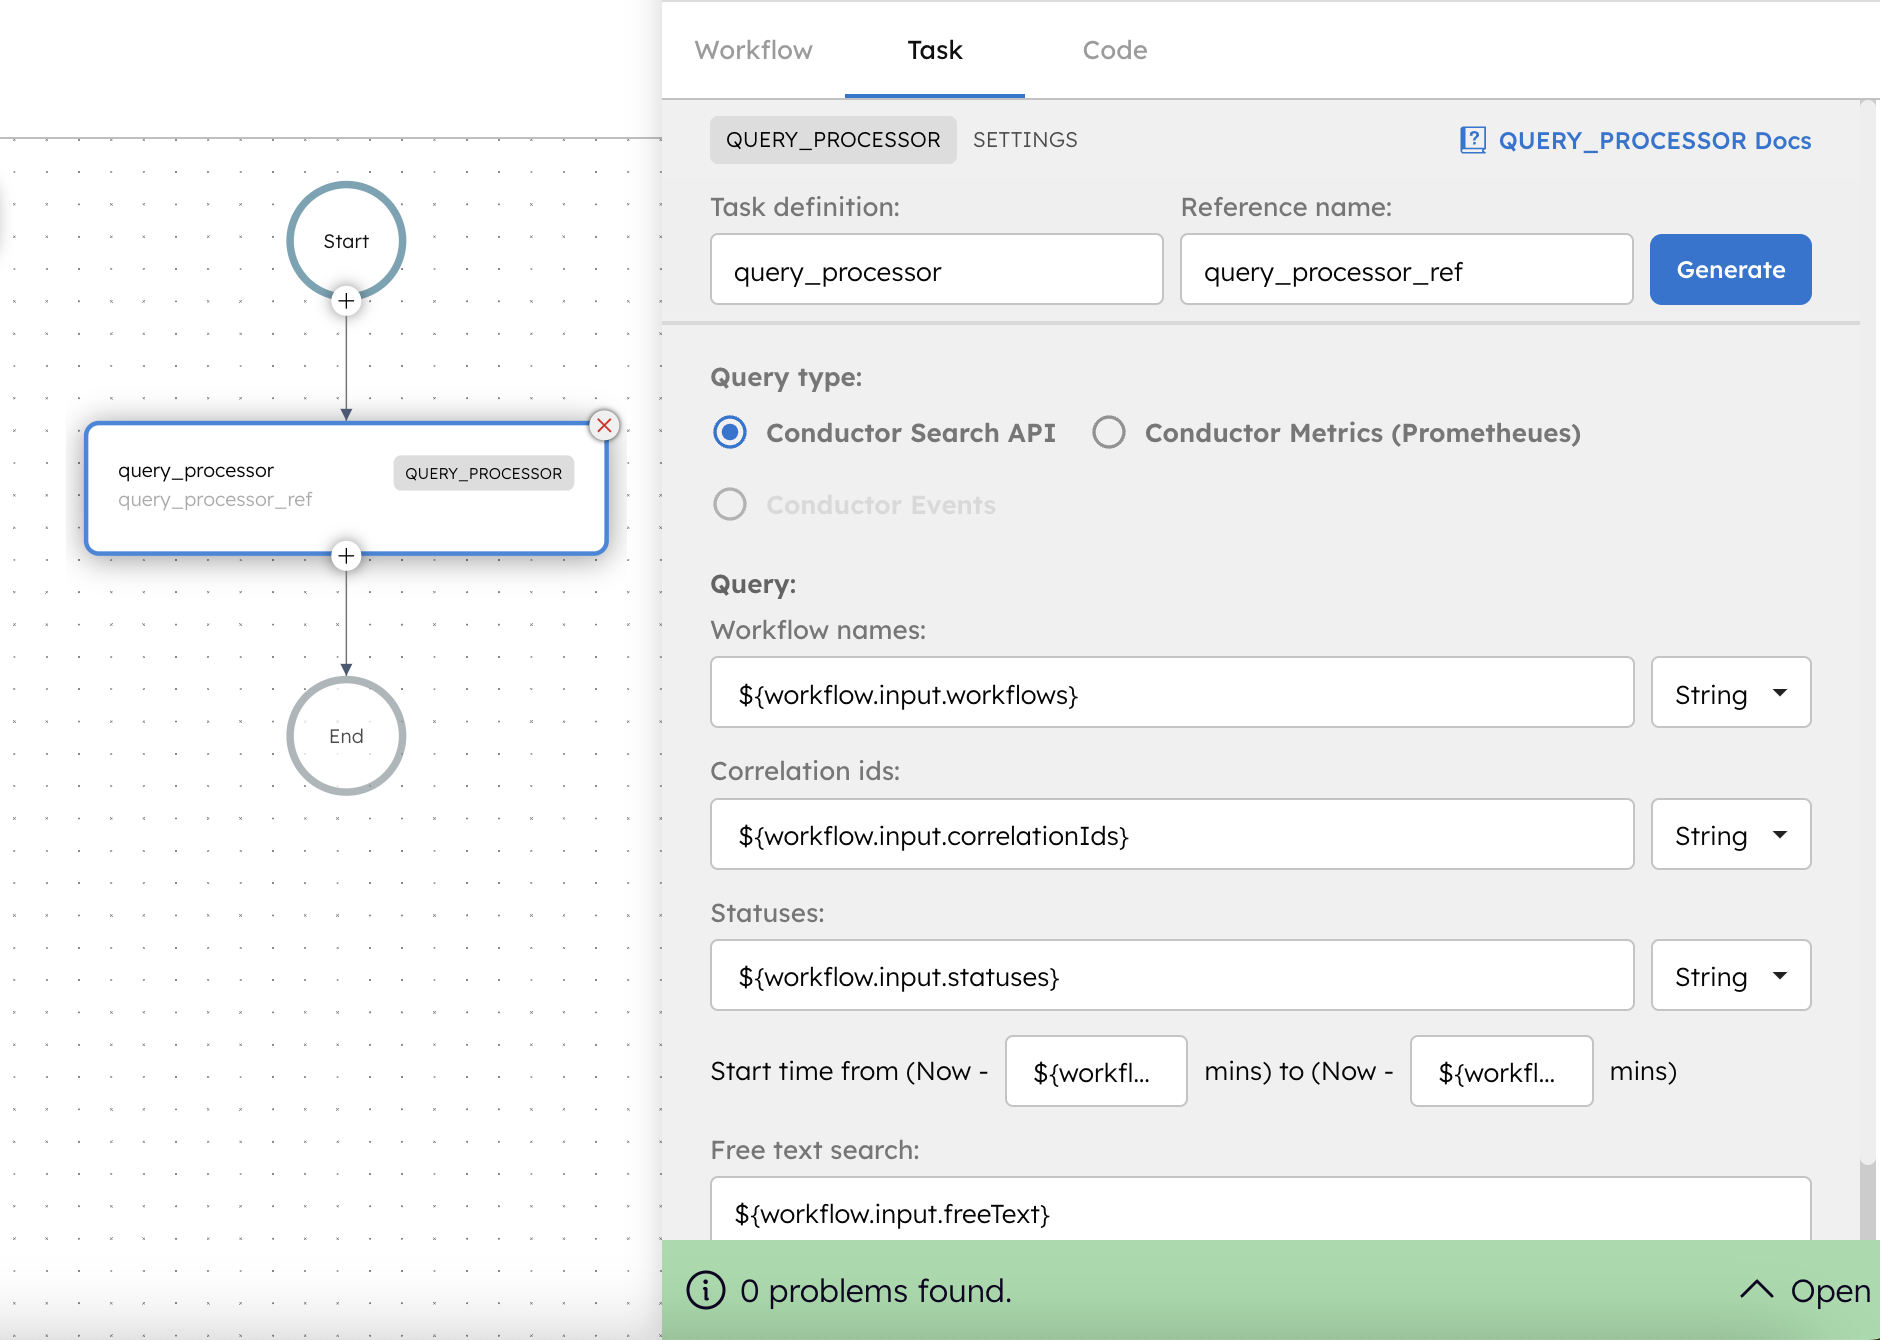
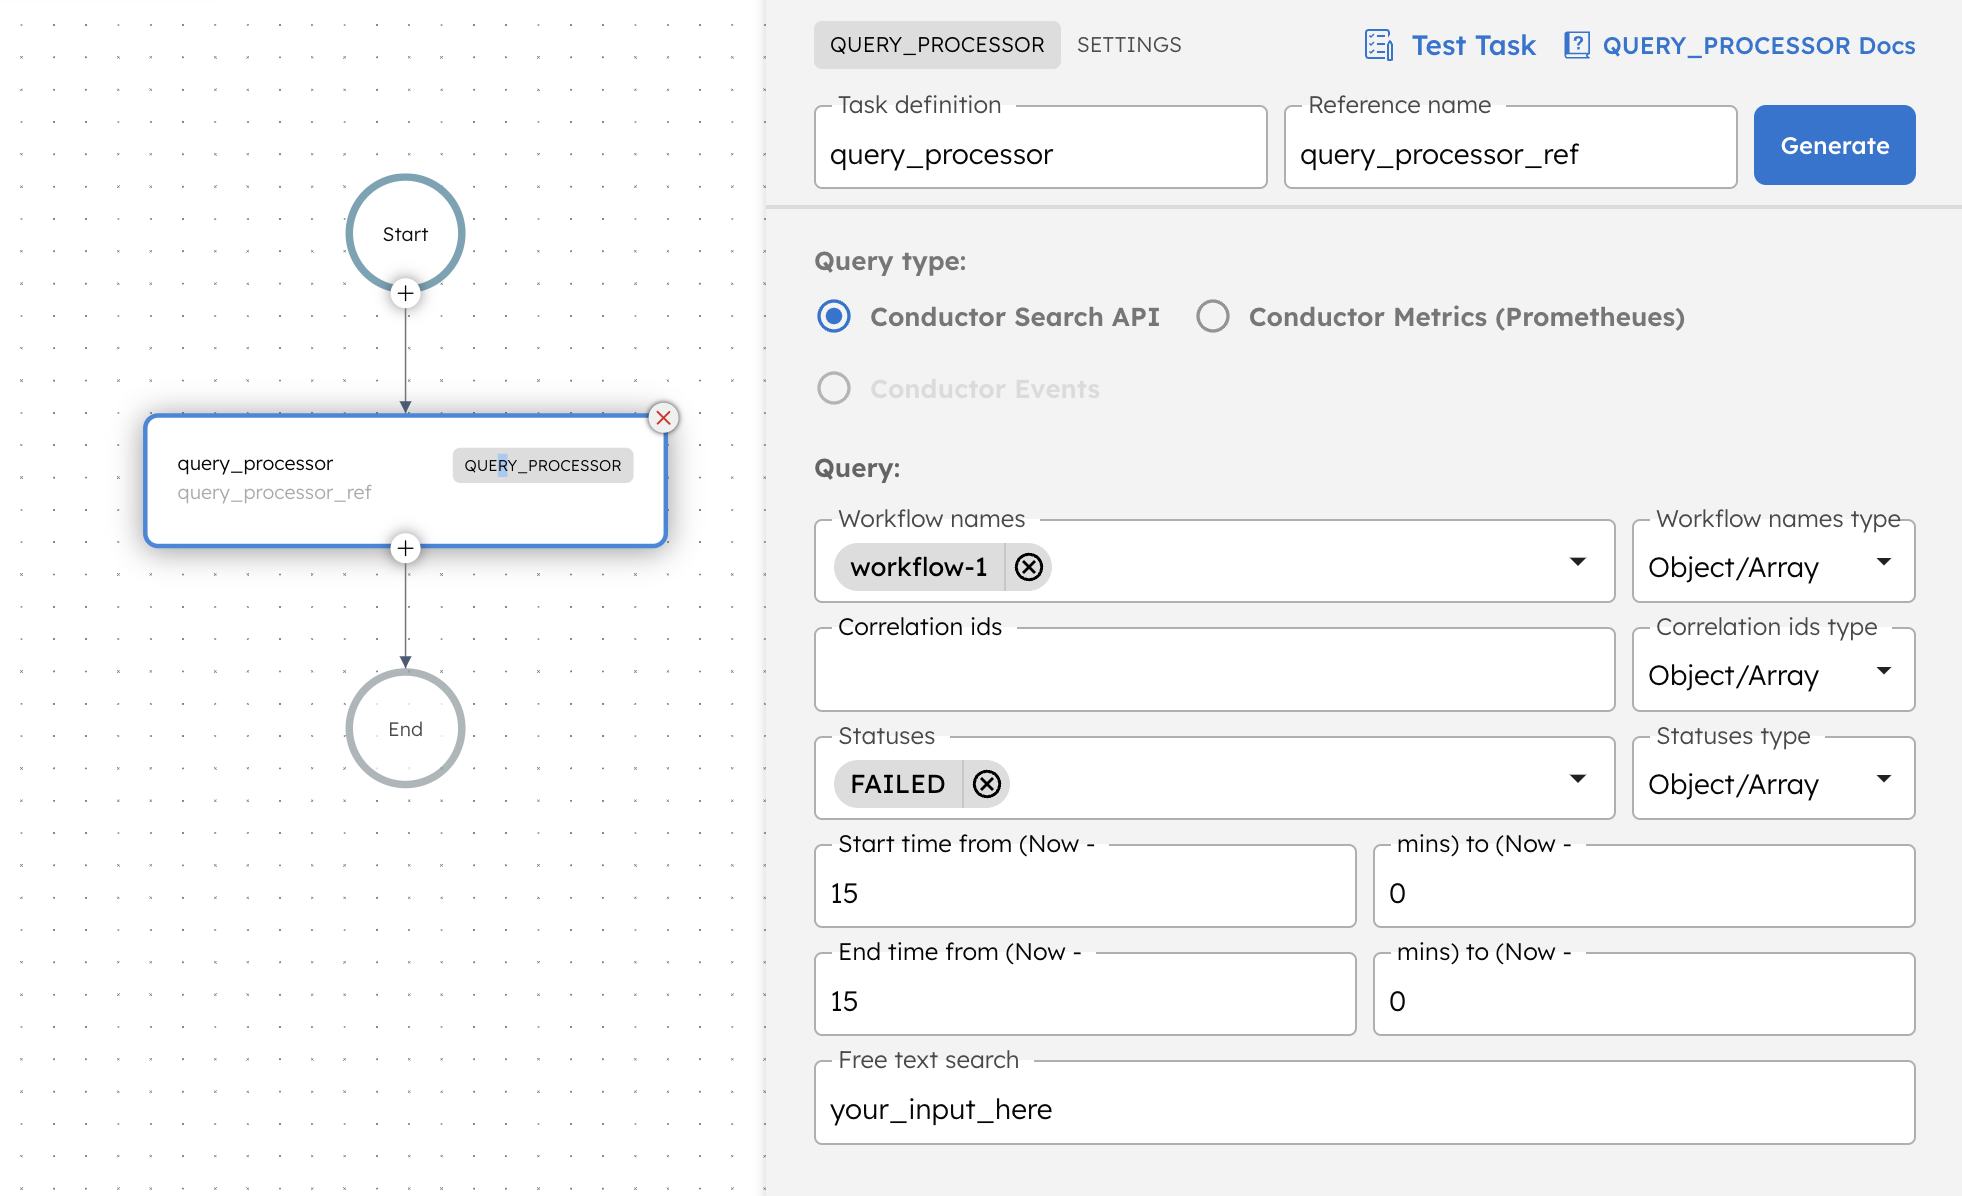
Query Processor doc updates

diff --git a/docs/reference-docs/system-tasks/query-processor.md b/docs/reference-docs/system-tasks/query-processor.md
@@ -7,29 +7,35 @@ import TabItem from '@theme/TabItem';
 
 # Query Processor
 
-A system task for executing queries across different systems, tailored for purposes like alert generation.
+A system task designed to execute queries across various systems, primarily used for alert generation.
 
-Conductor supports the ability to query the following sources:
+Conductor supports querying from the following sources:
 
 -  Conductor Search API
-    - This query type can be used for querying information from the Conductor Search API. It allows users to retrieve workflow-related data based on various parameters.
+    - This query type retrieves workflow-related data from the Conductor Search API using various parameters.
 - Conductor Metrics (Prometheus)
-    - This query type facilitates querying Conductor Metrics using Prometheus. It enables users to gather and analyze performance metrics and system statistics. 
+    - This query type allows gathering and analyzing performance metrics and system statistics through Prometheus. 
 
 ## Definitions
 
 ```json
-{
+  {
      "name": "query_processor",
      "taskReferenceName": "query_processor_ref",
      "inputParameters": {
+       "workflowNames": [
+         "workflow-1"
+       ],
+       "statuses": [
+         "FAILED"
+       ],
+       "correlationIds": [],
        "queryType": "CONDUCTOR_API",
-       "statuses": "${workflow.input.statuses}",
-       "workflowNames": "${workflow.input.workflows}",
-       "startTimeFrom": "${workflow.input.fromStartedMinsFromNow}",
-       "startTimeTo": "${workflow.input.toStartedMinsFromNow}",
-       "correlationIds": "${workflow.input.correlationIds}",
-       "freeText": "${workflow.input.freeText}"
+       "startTimeFrom": 15,
+       "endTimeFrom": 15,
+       "startTimeTo": 0,
+       "endTimeTo": 0,
+       "freeText": "your_input_here"
      },
      "type": "QUERY_PROCESSOR",
 }
@@ -39,20 +45,22 @@ Conductor supports the ability to query the following sources:
 
 | Attribute  | Description             |
 |-------------|-------------------------|
-| queryType | Choose the query type. It can take the following values:<ul><li>CONDUCTOR_API</li><li>METRICS</li></ul> | 
+| queryType | Select the query type. Supported values:<ul><li>CONDUCTOR_API</li><li>METRICS</li></ul> | 
 
-Depending on the chosen query method, the configuration parameters vary. If CONDUCTOR_API is chosen, then provide the following parameters:
+If **_queryType_** is **_CONDUCTOR_API_**:
 
 | Attribute  | Description             |
 |-------------|-------------------------|
-| workflowNames | Provide the workflow names for the query. | 
-| correlationIds | Provide the correlation ID of the workflows to be queried. |
-| statuses | Provide the statuses of the workflows to be queried. |
-| startTimeFrom | Specify the time range for the query to be performed. |
-| startTimeTo | Specify the time range for the query to be performed. |
-| freeText | Specify the free text search parameter. |
+| workflowNames | Names of the workflows to query. Can be a string or array. | 
+| correlationIds | Correlation IDs of the workflows to query. Can be a string or array. |
+| statuses | Statuses of the workflows to query. Can be a string or array. |
+| startTimeFrom | Defines the start of the time range for the query, in minutes from the current time. For example, setting this to 15 means the query will include data starting from 15 minutes ago. |
+| startTimeTo | Defines the end of the time range for the query, in minutes from the current time. Setting this to 0 means the query will include data up to the current time. |
+| endTimeFrom | Defines the start time of the time range for the query's execution end time, measured in minutes from the current time. |
+| endTimeTo | Defines the end time of the time range for the query's execution end time, measured in minutes from the current time. | 
+| freeText | Free text search parameter.. |
 
-If the query type is chosen as METRICS, then the task definition is as follows:
+If **_queryType_** is **_METRICS_**:
 
 ```json
 {
@@ -72,15 +80,16 @@ If the query type is chosen as METRICS, then the task definition is as follows:
 | Attribute | Description             |
 |-------------|-------------------------|
 | metricsQuery | Indicates the Prometheus query. | 
-| metricsStart | Specifies the start time for the metrics query. |
-| metricsEnd | Specifies the end time for the metrics query. |
+| metricsStart | Start time for the metrics query. |
+| metricsEnd | End time for the metrics query. |
 | metricsStep | Defines a step or interval of the metrics query. | 
 
 ## Output Parameters
 
 | Attribute  | Description             |
 |-------------|-------------------------|
-| workflowsUrl | A link to the queried workflow executions in Conductor UI. |
+| workflowsUrl | URL linking to the queried workflow executions in the UI. |
+| workflows | Returns the details of the queried workflow. | 
 
 ## Examples
 
@@ -112,17 +121,23 @@ If the query type is chosen as METRICS, then the task definition is as follows:
  <TabItem value="JSON" label="JSON">
 
 ```json
-    {
+  {
      "name": "query_processor",
      "taskReferenceName": "query_processor_ref",
      "inputParameters": {
+       "workflowNames": [
+         "workflow-1"
+       ],
+       "statuses": [
+         "FAILED"
+       ],
+       "correlationIds": [],
        "queryType": "CONDUCTOR_API",
-       "statuses": "${workflow.input.statuses}",
-       "workflowNames": "${workflow.input.workflows}",
-       "startTimeFrom": "${workflow.input.fromStartedMinsFromNow}",
-       "startTimeTo": "${workflow.input.toStartedMinsFromNow}",
-       "correlationIds": "${workflow.input.correlationIds}",
-       "freeText": "${workflow.input.freeText}"
+       "startTimeFrom": 15,
+       "endTimeFrom": 15,
+       "startTimeTo": 0,
+       "endTimeTo": 0,
+       "freeText": "your_input_here"
      },
      "type": "QUERY_PROCESSOR",
     }
@@ -131,4 +146,4 @@ If the query type is chosen as METRICS, then the task definition is as follows:
 </TabItem>
 </Tabs>
 
-Have a look at the [workflow alerting example with OpsGenie](https://orkes.io/content/templates/alerting/querying-orkes-data-and-triggering-opsgenie-alert) for a detailed example of leveraging this task.
+See the [workflow alerting example with Opsgenie](https://orkes.io/content/templates/alerting/querying-orkes-data-and-triggering-opsgenie-alert) for a detailed demonstration of leveraging this task.
